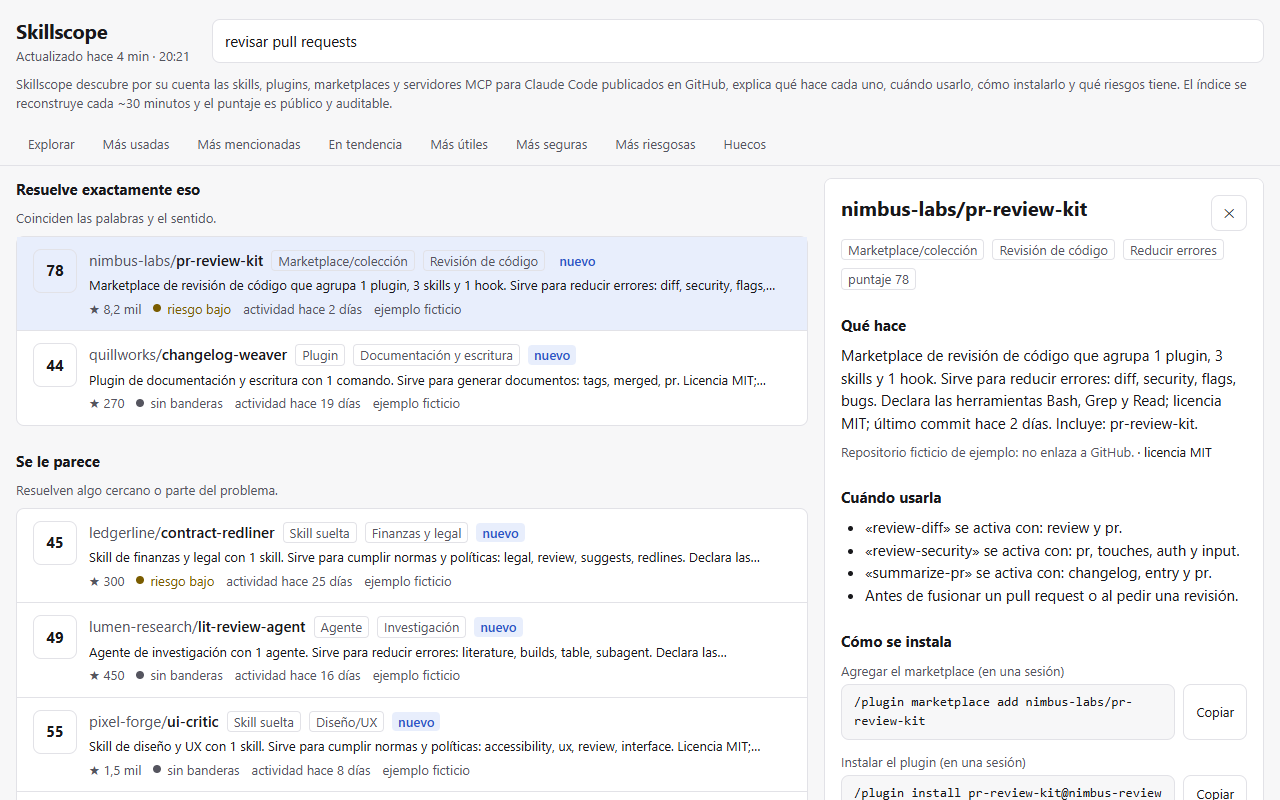
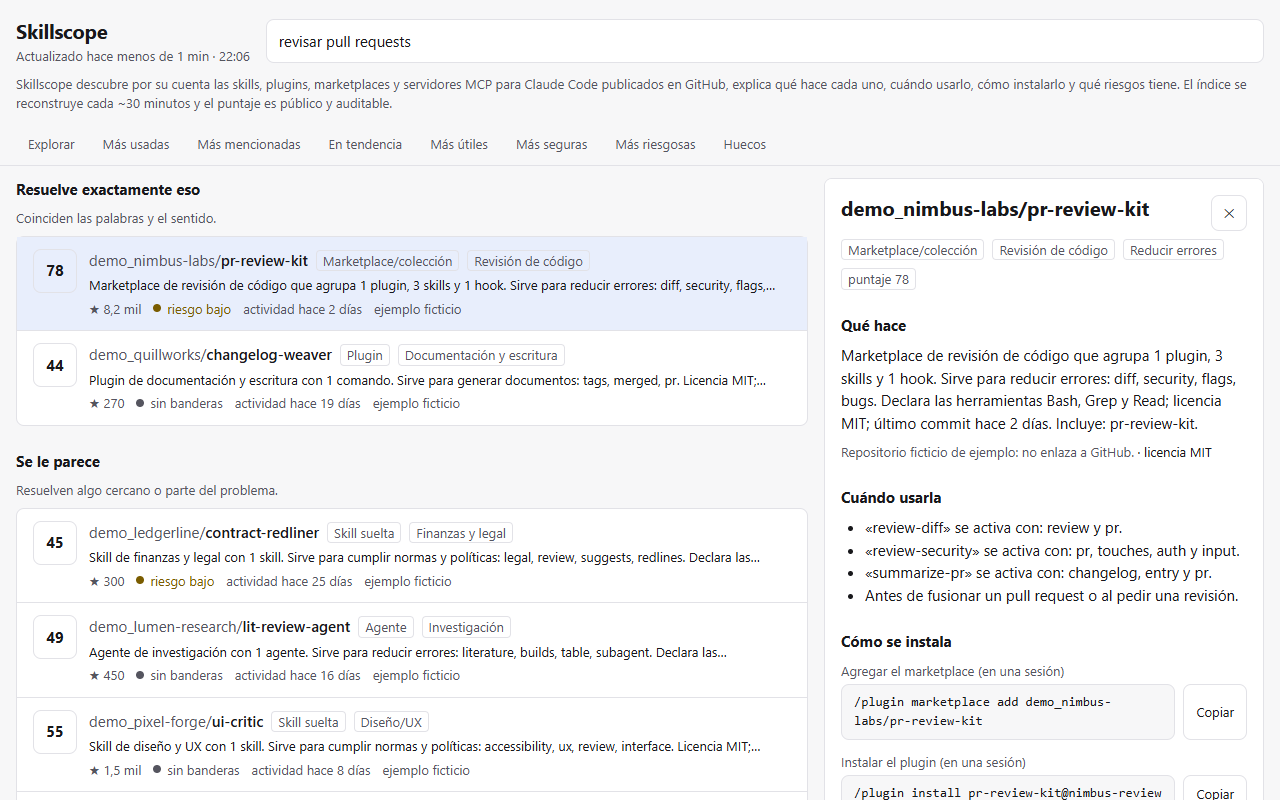
docs: risk evidence, static page, badge and social preview images

diff --git a/README.md b/README.md
@@ -26,6 +26,10 @@ ejemplo (marcados como «ejemplo ficticio») en `http://localhost:8080`, sin red
 |---|---|---|
 | ![Búsqueda y ficha](docs/img/busqueda-ficha.png) | ![Huecos](docs/img/huecos.png) | ![Móvil](docs/img/movil.png) |
 
+| Riesgos con evidencia (archivo, línea y fragmento) | Página estática por repo (schema.org) |
+|---|---|
+| ![Banderas de riesgo de un paquete ficticio malicioso](docs/img/riesgos.png) | ![Página estática indexable](docs/img/pagina-estatica.png) |
+
 ## Problema que resuelve
 
 Las skills, plugins, marketplaces y servidores MCP para Claude Code se publican a diario en
@@ -61,7 +65,8 @@ interés y demanda; nunca son la fuente del catálogo.
 - **Actualización en vivo sin recargar**: la web consulta el índice cada 5 min con `ETag`; si hay un
   build nuevo reemplaza el contenido en su sitio y conserva el scroll y el texto de búsqueda.
 - **Publicación abierta**: API JSON estática, RSS 2.0, JSON Feed 1.1, página estática por repo con
-  schema.org, `sitemap.xml` e insignia SVG para el README de cada repo.
+  schema.org, `sitemap.xml` e insignia SVG para el README de cada repo:
+  ![Insignia de ejemplo con puntaje 78](docs/img/insignia-ejemplo.svg)
 - **Retiro inmediato**: el dueño de un repo lo excluye con el topic `skillscope-optout` o un issue.
 
 ## Arquitectura
@@ -303,8 +308,9 @@ Paso a paso, presupuesto de llamadas y verificación: [docs/despliegue.md](docs/
 
 Investigación completa con 57 fuentes, verificaciones propias y supuestos:
 [docs/investigacion.md](docs/investigacion.md) · límites y presupuesto por fuente:
-[docs/fuentes.md](docs/fuentes.md). Los datos de `data/samples` son **ficticios**: los nombres de
-repos y autores no corresponden a personas reales y sus enlaces apuntan a `example.com`.
+[docs/fuentes.md](docs/fuentes.md). Los datos de `data/samples` son **ficticios**: todos los dueños
+llevan el prefijo `demo_` (GitHub no admite `_` en nombres de usuario ni de organización, así que
+nunca coinciden con una cuenta real), los autores son inventados y sus enlaces apuntan a `example.com`.
 
 Código bajo licencia [MIT](LICENSE).
 
